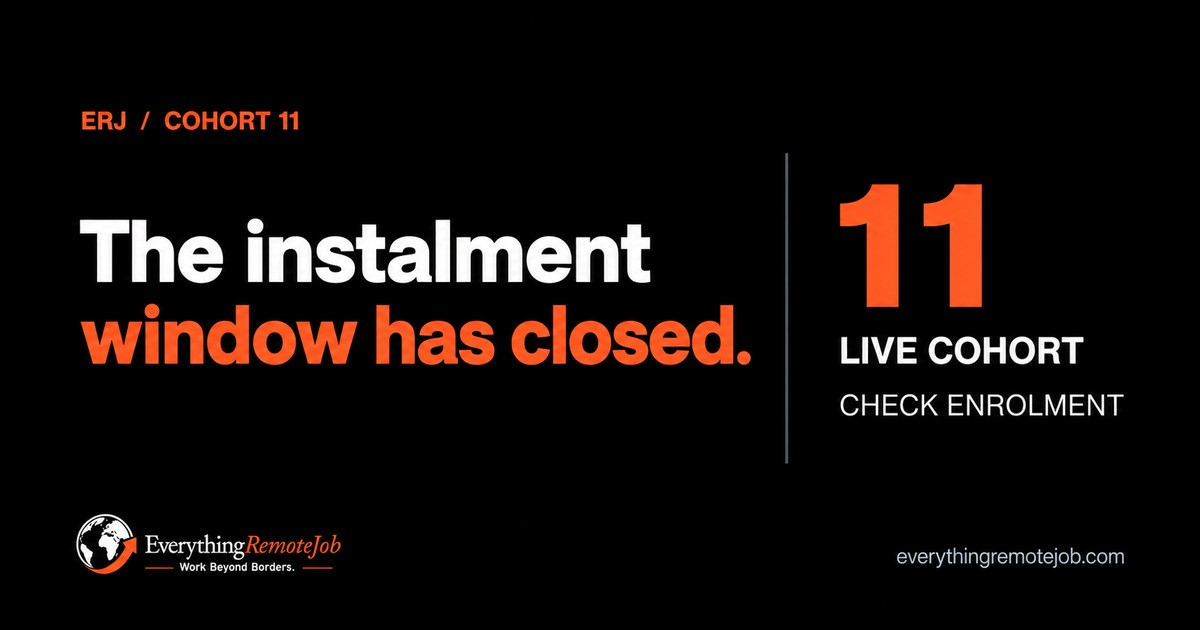
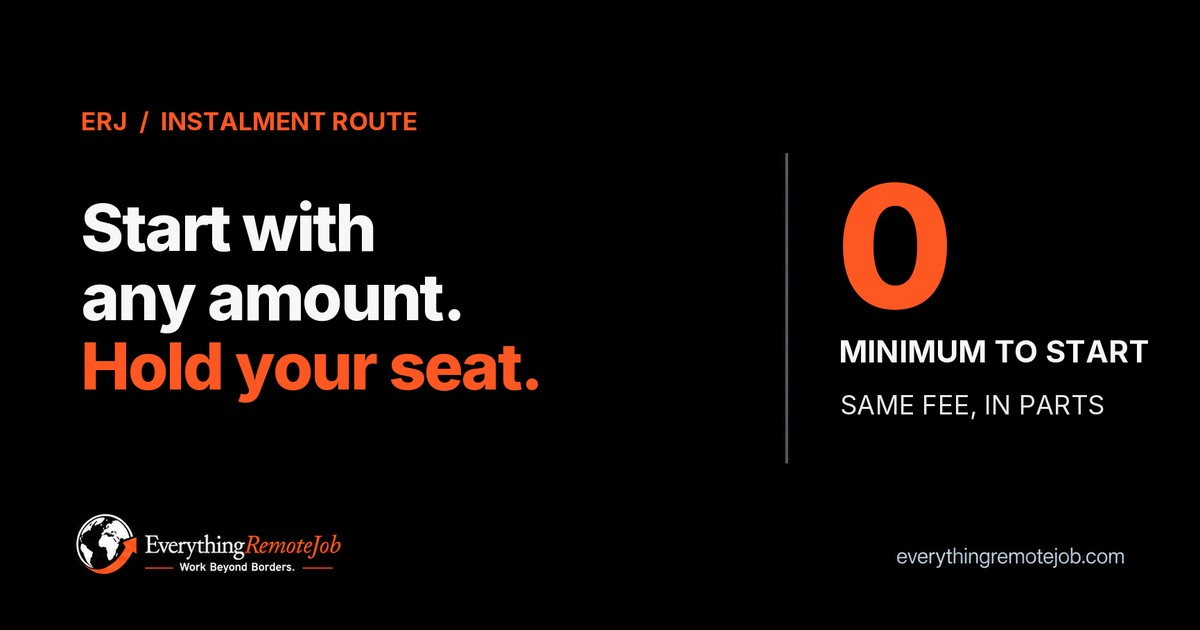
Add files via upload

Changed region(s): [[0.0617, 0.3016, 0.6475, 0.6635], [0.6783, 0.2714, 0.9558, 0.6635], [0.0617, 0.1508, 0.37, 0.2111]]

diff --git a/earlybird.html b/earlybird.html
@@ -11,6 +11,18 @@
 <meta content="https://everythingremotejob.com/preview-earlybird.jpg" property="og:image"/>
 <meta content="1200" property="og:image:width"/>
 <meta content="630" property="og:image:height"/>
+<meta content="Start with any amount — Foundation Training in instalments" property="og:title"/>
+<meta content="Hold your seat in the live Foundation Training cohort with an instalment of any amount. The fee does not change — only the shape of the payment does." property="og:description"/>
+<meta content="https://everythingremotejob.com/earlybird.html" property="og:url"/>
+<meta content="website" property="og:type"/>
+<meta content="Everything Remote Job" property="og:site_name"/>
+<meta content="en_NG" property="og:locale"/>
+<meta content="Start with any amount. Hold your seat. Zero minimum to start — same fee, paid in parts." property="og:image:alt"/>
+<meta content="summary_large_image" name="twitter:card"/>
+<meta content="Start with any amount — Foundation Training in instalments" name="twitter:title"/>
+<meta content="Hold your seat in the live Foundation Training cohort with an instalment of any amount. Same fee, paid in parts." name="twitter:description"/>
+<meta content="https://everythingremotejob.com/preview-earlybird.jpg" name="twitter:image"/>
+<meta content="Start with any amount. Hold your seat. Zero minimum to start — same fee, paid in parts." name="twitter:image:alt"/>
 <!-- Unlisted by design: not in the menu, not in the sitemap, not indexed. -->
 <meta content="noindex, nofollow" name="robots"/>
 <meta content="#000000" name="theme-color"/>
@@ -521,6 +533,26 @@ a.promo-tick{text-decoration:none;display:block;}
 <!-- END product.css -->
 <style>
   /* Page-local. Deliberately few components — this page has one job. */
+  /* Brand bar. Not the site menu: this page has one job, but a payment page
+     still has to say whose it is and offer a way home. Same marks and
+     theme swap as erj-nav.js. */
+  .eb-brandbar{display:flex;align-items:center;justify-content:space-between;gap:1rem;
+    max-width:1000px;margin:0 auto;padding:0.85rem clamp(1.1rem,4vw,2.2rem);}
+  .eb-brand{display:inline-flex;align-items:center;gap:9px;text-decoration:none;color:var(--ink);
+    font-family:var(--font-display,"Space Grotesk",system-ui,sans-serif);font-size:1rem;letter-spacing:-0.3px;}
+  .eb-brand img{width:30px;height:30px;display:block;object-fit:contain;}
+  .eb-brand b{font-weight:700;}.eb-brand i{font-style:italic;font-weight:700;color:var(--accent);margin-left:-0.08em;}
+  .eb-brand .eb-mark-day{display:none;}
+  html[data-theme="day"] .eb-brand .eb-mark-night{display:none;}
+  html[data-theme="day"] .eb-brand .eb-mark-day{display:block;}
+  .eb-home{font-size:0.82rem;color:var(--ink-soft);text-decoration:none;white-space:nowrap;}
+  .eb-home:hover,.eb-home:focus-visible{color:var(--accent);}
+  .eb-brand{min-width:0;flex-shrink:1;white-space:nowrap;}
+  .eb-home{flex-shrink:0;}
+  .eb-home-short{display:none;}
+  @media(max-width:560px){.eb-home-long{display:none;}.eb-home-short{display:inline;}
+    .eb-brand{font-size:0.9rem;gap:7px;}.eb-brand img{width:26px;height:26px;}}
+  @media(max-width:360px){.eb-home{display:none;}}
   .eb-wrap{max-width:1000px;margin:0 auto;padding:0 clamp(1.1rem,4vw,2.2rem);}
   .eb-sec{padding:clamp(1.6rem,4vw,2.6rem) 0;border-top:1px solid var(--line);}
   .eb-sec:first-of-type{border-top:0;}
@@ -650,6 +682,10 @@ a.promo-tick{text-decoration:none;display:block;}
 <!-- Google Tag Manager (noscript) -->
 <noscript><iframe height="0" src="https://www.googletagmanager.com/ns.html?id=GTM-NMFHS59B" style="display:none;visibility:hidden" width="0"></iframe></noscript>
 <!-- End Google Tag Manager (noscript) -->
+<header class="eb-brandbar">
+<a class="eb-brand" href="index.html" aria-label="Everything Remote Job — home"><img class="eb-mark-night" src="erj-mark-dark-128.png" alt="" width="30" height="30"/><img class="eb-mark-day" src="erj-mark-light-128.png" alt="" width="30" height="30"/><b>Everything</b><i>RemoteJob</i></a>
+<a class="eb-home" href="foundationtraining/"><span class="eb-home-long">About Foundation Training</span><span class="eb-home-short">The training</span> →</a>
+</header>
 <main>
 <div class="promo-tick" role="note" aria-label="Start with any amount — balanced by 24 October."><div class="promo-track">Start with any amount — <em>balanced by 24 October.</em></div></div>
 <div class="eb-wrap">

diff --git a/self-learn-vs-foundation-training.html b/self-learn-vs-foundation-training.html
@@ -763,7 +763,7 @@ a.promo-tick{text-decoration:none;display:block;}
 <script defer="" src="erj-config.js?v=20260928a"></script>
 <script defer="" src="erj-capture.js?v=20260911a"></script>
 <script>if("serviceWorker" in navigator){window.addEventListener("load",function(){var go=function(){navigator.serviceWorker.register("/sw.js").then(function(reg){reg.update();}).catch(function(){});};if("requestIdleCallback" in window){requestIdleCallback(go,{timeout:3000});}else{setTimeout(go,1200);}});}</script>
-<script defer="" src="erj-schema.js?v=20260911a"></script>
+<script defer="" src="erj-schema.js?v=20260928c"></script>
 </body>
 </html><div class="sl-credit reveal">
 <b>The ₦35,000 is not money spent instead of the cohort</b>
